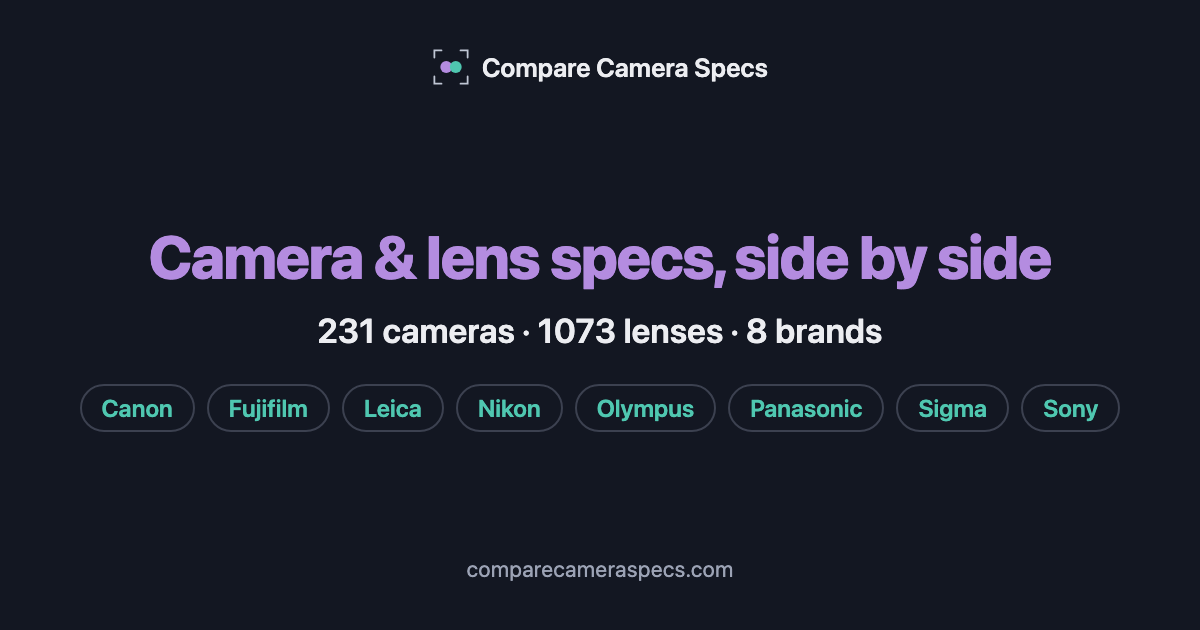
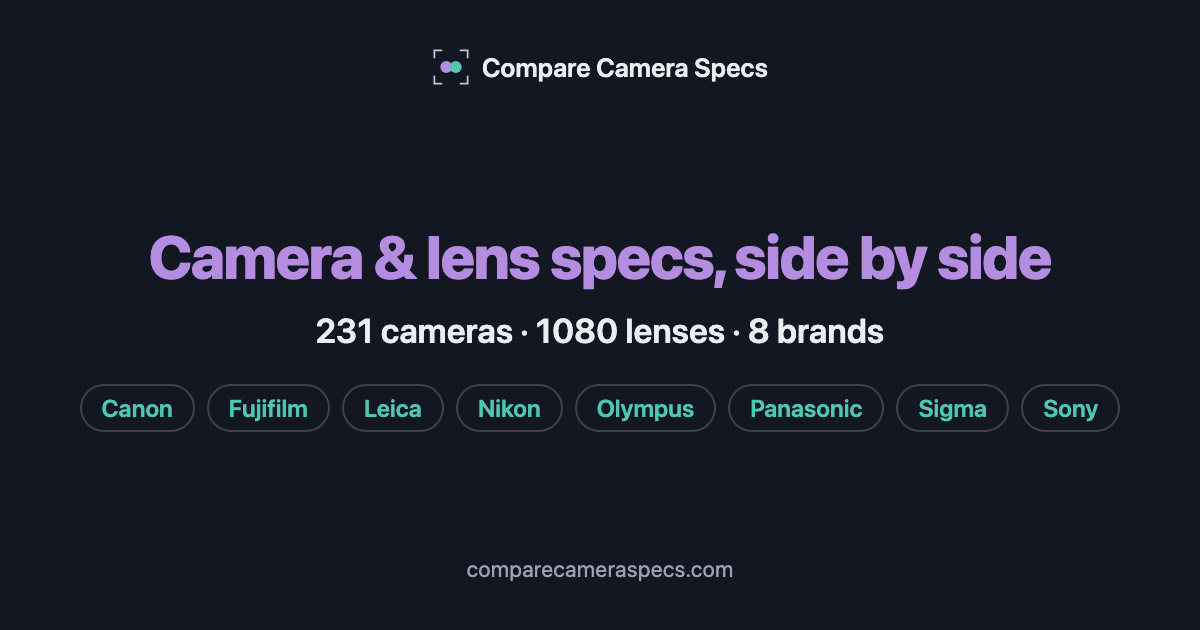
Nikon: add 7 TTArtisan Z-mount lenses; per-maker dropdown groups
50 f/1.2, Tilt 35 f/1.4, 14 f/2.8, 40 f/2.8 Macro, Tilt-Shift 17 f/4,
35 f/1.4 and 11 f/2.8 Fisheye. TTArtisan's tables cover all mounts; the
Z size/weight come from each lens's B&H Nikon Z listing. 15 candidates
skipped (no Z dimensions, or weight only as a cross-mount range), listed
in PROGRESS.md. Nikon's 'Other' group is now Yongnuo / TTArtisan /
7Artisans / Meike, as on sony/.

Claude-Session: https://claude.ai/code/session_01FYKXhtYCHKNL3CJLW6oPDG

Changed region(s): [[0.2467, 0.4825, 0.74, 0.5429]]

diff --git a/nikon/data.js b/nikon/data.js
@@ -3168,6 +3168,125 @@ const LENSES = {
     imageSource: { url:'https://ttartisan.store/products/ttartisan-af-85mm-f1-8-neo', tier:'T1', note:'official TTArtisan store product photo; the page\'s og:image reflects the default Sony E variant (filename "SKU-E_...") rather than the Z-selected one — the theme does not update the OG tag on a client-side mount-selector click. Cosmetically identical across mounts in a front-on shot', date:'2026-08-31' },
   },
 
+  'ttartisan-50mm-f12': {
+    name:'TTArtisan 50mm f/1.2', manufacturer:'TTArtisan', line:'MF', type:'Prime',
+    mount:'z', focalLength:50, focalLengthMin:null, focalLengthMax:null, focalLengthEquiv:'75mm',
+    maxAperture:1.2, minAperture:16, weight:336, length:60, diameter:62,
+    filterThread:52, minFocusDist:50, maxMagnification:null,
+    elements:7, groups:5, blades:10, afType:'Manual',
+    weatherSealed:false, ois:false, oisStops:null, year:2020, discontinued:false,
+    imageUrl:'https://cdn.shopify.com/s/files/1/0433/2224/5282/files/C5012-1.jpg',
+    imageSource: { url:'https://ttartisan.store/products/ttartisan-50mm-f1-2', tier:'T1', title:'TTArtisan official store', note:'first product image, lens alone; same photo as the Sony entry', date:'2026-10-21' },
+    asin:null,
+    prices:{USD:109,AUD:null,EUR:null,GBP:null,JPY:null,CAD:null,SGD:null},
+    specSources: [{ url:'https://www.bhphotovideo.com/c/product/1637540-REG/x.html/specs', tier:'T3', title:'B&H - TTArtisan 50mm f/1.2 (Nikon Z) specs', note:'Nikon Z: 62 x 60mm (diameter x length), 336g, f/1.2-16, 50cm, 7/5, 10 blades. Used for the Z size/weight, which TTArtisan publishes only as per-mount diagrams or a weight range', date:'2026-10-21' }, { url:'https://ttartisan.store/products/ttartisan-50mm-f1-2', tier:'T1', title:'TTArtisan 50mm f/1.2 - TTArtisan official store', note:'APS-C; F1.2-F16, 7/5, 10 blades, 0.5m, 52mm filter, around 336g; mounts E / X / Z / RF / EOS M / L / M43', date:'2026-10-21' }],
+    priceSource: { url:'https://ttartisan.store/products/ttartisan-50mm-f1-2', tier:'T1', title:'TTArtisan official store', note:'Nikon Z variant $109, no compare-at/sale price (store products.json); non-USD not examined', date:'2026-10-21' },
+    priceIncomplete:true,
+    productUrl:'https://ttartisan.store/products/ttartisan-50mm-f1-2',
+  },
+
+  'ttartisan-tilt-35mm-f14': {
+    name:'TTArtisan Tilt 35mm f/1.4', manufacturer:'TTArtisan', line:'Tilt', type:'Prime',
+    mount:'z', focalLength:35, focalLengthMin:null, focalLengthMax:null, focalLengthEquiv:'53mm',
+    maxAperture:1.4, minAperture:16, weight:345, length:65, diameter:66,
+    filterThread:52, minFocusDist:35, maxMagnification:null,
+    elements:7, groups:6, blades:10, afType:'Manual',
+    weatherSealed:false, ois:false, oisStops:null, year:2025, discontinued:false,
+    imageUrl:'https://cdn.shopify.com/s/files/1/0433/2224/5282/files/SKU-Z_94d21bfa-5d73-45fd-a8b4-b702f542326a.jpg',
+    imageSource: { url:'https://ttartisan.store/products/tilt-35mm-f1-4', tier:'T1', title:'TTArtisan official store', note:'the Nikon Z variant\'s own product image (file SKU-Z), lens alone', date:'2026-10-21' },
+    asin:null,
+    prices:{USD:169,AUD:null,EUR:null,GBP:null,JPY:null,CAD:null,SGD:null},
+    specSources: [{ url:'https://www.bhphotovideo.com/c/product/1896435-REG/x.html/specs', tier:'T3', title:'B&H - TTArtisan Tilt 35mm f/1.4 (Nikon Z) specs', note:'Nikon Z (T-C3514-Z-B): 66 x 65mm (diameter x length), 345g, 35cm. Used for the Z size/weight, which TTArtisan publishes only as per-mount diagrams or a weight range', date:'2026-10-21' }, { url:'https://ttartisan.store/products/tilt-35mm-f1-4', tier:'T1', title:'TTArtisan Tilt 35mm f/1.4 - TTArtisan official store', note:'APS-C tilt lens; F1.4-F16, 7/6, 10 blades, 0.35m, 52mm filter, around 341~350g; mounts E/X/Z/RF/M43', date:'2026-10-21' }],
+    priceSource: { url:'https://ttartisan.store/products/tilt-35mm-f1-4', tier:'T1', title:'TTArtisan official store', note:'Nikon Z variant $169, no compare-at/sale price (store products.json); non-USD not examined', date:'2026-10-21' },
+    priceIncomplete:true,
+    productUrl:'https://ttartisan.store/products/tilt-35mm-f1-4',
+  },
+
+  'ttartisan-14mm-f28-asph': {
+    name:'TTArtisan 14mm f/2.8 ASPH', manufacturer:'TTArtisan', line:'Manual', type:'Prime',
+    mount:'z', focalLength:14, focalLengthMin:null, focalLengthMax:null, focalLengthEquiv:'14mm',
+    maxAperture:2.8, minAperture:16, weight:445, length:65, diameter:80,
+    filterThread:null, minFocusDist:20, maxMagnification:null,
+    elements:13, groups:10, blades:8, afType:'Manual',
+    weatherSealed:false, ois:false, oisStops:null, year:2025, discontinued:false,
+    imageUrl:'https://cdn.shopify.com/s/files/1/0433/2224/5282/files/SKU-Z_d28e03b9-d119-4d4e-81eb-57571295d84b.jpg',
+    imageSource: { url:'https://ttartisan.store/products/14mm-f2-8', tier:'T1', title:'TTArtisan official store', note:'the Nikon Z variant\'s own product image (file SKU-Z), lens alone', date:'2026-10-21' },
+    asin:null,
+    prices:{USD:196,AUD:null,EUR:null,GBP:null,JPY:null,CAD:null,SGD:null},
+    specSources: [{ url:'https://www.bhphotovideo.com/c/product/1922596-REG/x.html/specs', tier:'T3', title:'B&H - TTArtisan 14mm f/2.8 ASPH (Nikon Z) specs', note:'Nikon Z (F1428-Z-B): 80 x 65mm (diameter x length), 445g, 0.2m, 13/10, 8 blades. Used for the Z size/weight, which TTArtisan publishes only as per-mount diagrams or a weight range', date:'2026-10-21' }, { url:'https://ttartisan.store/products/14mm-f2-8', tier:'T1', title:'TTArtisan 14mm f/2.8 ASPH - TTArtisan official store', note:'F2.8-F16, 13/10, 8 blades, 0.2m, 77mm filters via external holder only, around 437~445g; mounts E / Z / RF / L', date:'2026-10-21' }],
+    priceSource: { url:'https://ttartisan.store/products/14mm-f2-8', tier:'T1', title:'TTArtisan official store', note:'Nikon Z variant $196, no compare-at/sale price (store products.json); non-USD not examined', date:'2026-10-21' },
+    priceIncomplete:true,
+    productUrl:'https://ttartisan.store/products/14mm-f2-8',
+  },
+
+  'ttartisan-40mm-f28-macro': {
+    name:'TTArtisan 40mm f/2.8 Macro', manufacturer:'TTArtisan', line:'Macro', type:'Prime',
+    mount:'z', focalLength:40, focalLengthMin:null, focalLengthMax:null, focalLengthEquiv:'60mm',
+    maxAperture:2.8, minAperture:16, weight:371, length:77, diameter:63,
+    filterThread:52, minFocusDist:17, maxMagnification:1,
+    elements:8, groups:7, blades:11, afType:'Manual',
+    weatherSealed:false, ois:false, oisStops:null, year:2021, discontinued:false,
+    imageUrl:'https://cdn.shopify.com/s/files/1/0433/2224/5282/files/1_576e018c-2df7-4069-870e-d6bf6118a545.jpg',
+    imageSource: { url:'https://ttartisan.store/products/aps-c-40mm-f2-8-marco', tier:'T1', title:'TTArtisan official store', note:'first product image, lens alone; same photo as the Sony entry', date:'2026-10-21' },
+    asin:null,
+    prices:{USD:114,AUD:null,EUR:null,GBP:null,JPY:null,CAD:null,SGD:null},
+    specSources: [{ url:'https://www.bhphotovideo.com/c/product/1663949-REG/x.html/specs', tier:'T3', title:'B&H - TTArtisan 40mm f/2.8 Macro (Nikon Z) specs', note:'Nikon Z (A32B-Z): 63 x 77mm (diameter x length), 371g, 17cm, 8/7, 11 blades. Used for the Z size/weight, which TTArtisan publishes only as per-mount diagrams or a weight range', date:'2026-10-21' }, { url:'https://ttartisan.store/products/aps-c-40mm-f2-8-marco', tier:'T1', title:'TTArtisan 40mm f/2.8 Macro - TTArtisan official store', note:'APS-C 1:1 macro; F2.8-F16, 8/7, 11 blades, 0.17m, 52mm filter, around 371~403g; mounts E / X / Z / L / M43', date:'2026-10-21' }],
+    priceSource: { url:'https://ttartisan.store/products/aps-c-40mm-f2-8-marco', tier:'T1', title:'TTArtisan official store', note:'Nikon Z variant $114, no compare-at/sale price (store products.json); non-USD not examined', date:'2026-10-21' },
+    priceIncomplete:true,
+    productUrl:'https://ttartisan.store/products/aps-c-40mm-f2-8-marco',
+  },
+
+  'ttartisan-tilt-shift-17mm-f4-asph': {
+    name:'TTArtisan Tilt-Shift 17mm f/4 ASPH', manufacturer:'TTArtisan', line:'Tilt-Shift', type:'Prime',
+    mount:'z', focalLength:17, focalLengthMin:null, focalLengthMax:null, focalLengthEquiv:'17mm',
+    maxAperture:4, minAperture:16, weight:1051, length:116, diameter:88,
+    filterThread:null, minFocusDist:30, maxMagnification:null,
+    elements:17, groups:11, blades:10, afType:'Manual',
+    weatherSealed:false, ois:false, oisStops:null, year:2025, discontinued:false,
+    imageUrl:'https://cdn.shopify.com/s/files/1/0433/2224/5282/files/SKU-Z_1db242b7-1143-4d34-8cf2-90ad42138430.jpg',
+    imageSource: { url:'https://ttartisan.store/products/tilt-shift-17mm-f4-asph', tier:'T1', title:'TTArtisan official store', note:'the Nikon Z variant\'s own product image (file SKU-Z), lens alone', date:'2026-10-21' },
+    asin:null,
+    prices:{USD:550,AUD:null,EUR:null,GBP:null,JPY:null,CAD:null,SGD:null},
+    specSources: [{ url:'https://www.bhphotovideo.com/c/product/1957473-REG/x.html/specs', tier:'T3', title:'B&H - TTArtisan Tilt-Shift 17mm f/4 ASPH (Nikon Z) specs', note:'Nikon Z (F-TS174-Z): 88 x 116mm (diameter x length), 1051g, 30cm, 17/11, 10 blades. Used for the Z size/weight, which TTArtisan publishes only as per-mount diagrams or a weight range', date:'2026-10-21' }, { url:'https://ttartisan.store/products/tilt-shift-17mm-f4-asph', tier:'T1', title:'TTArtisan Tilt-Shift 17mm f/4 ASPH - TTArtisan official store', note:'F4-F16, 17/11, 10 blades, 0.3m, no filter thread, ±8° tilt / ±8mm shift, around 1051~1060g; mounts E/Z/RF/L/GFX', date:'2026-10-21' }],
+    priceSource: { url:'https://ttartisan.store/products/tilt-shift-17mm-f4-asph', tier:'T1', title:'TTArtisan official store', note:'Nikon Z variant $550, no compare-at/sale price (store products.json); non-USD not examined', date:'2026-10-21' },
+    priceIncomplete:true,
+    productUrl:'https://ttartisan.store/products/tilt-shift-17mm-f4-asph',
+  },
+
+  'ttartisan-35mm-f14': {
+    name:'TTArtisan 35mm f/1.4', manufacturer:'TTArtisan', line:'Manual', type:'Prime',
+    mount:'z', focalLength:35, focalLengthMin:null, focalLengthMax:null, focalLengthEquiv:'53mm',
+    maxAperture:1.4, minAperture:16, weight:180, length:44, diameter:56,
+    filterThread:39, minFocusDist:28, maxMagnification:null,
+    elements:7, groups:6, blades:10, afType:'Manual',
+    weatherSealed:false, ois:false, oisStops:null, year:2022, discontinued:false,
+    imageUrl:'https://cdn.shopify.com/s/files/1/0433/2224/5282/files/APS-C-35mm-F1.4_ef226ce4-f416-45f8-b230-517f5ac39e4f.jpg',
+    imageSource: { url:'https://ttartisan.store/products/aps-c-35mm-f1-4', tier:'T1', title:'TTArtisan official store', note:'first product image, lens alone; same photo as the Sony entry', date:'2026-10-21' },
+    asin:null,
+    prices:{USD:80,AUD:null,EUR:null,GBP:null,JPY:null,CAD:null,SGD:null},
+    specSources: [{ url:'https://www.bhphotovideo.com/c/product/1612188-REG/x.html/specs', tier:'T3', title:'B&H - TTArtisan 35mm f/1.4 (Nikon Z) specs', note:'Nikon Z: 56 x 44mm (diameter x length), 180g, 28cm, 7/6, 10 blades. Used for the Z size/weight, which TTArtisan publishes only as per-mount diagrams or a weight range', date:'2026-10-21' }, { url:'https://ttartisan.store/products/aps-c-35mm-f1-4', tier:'T1', title:'TTArtisan 35mm f/1.4 - TTArtisan official store', note:'APS-C; F1.4-F16, 7/6, 10 blades, 0.28m, 39mm filter, around 180g; mounts E / X / Z / RF / EOS M / L / M43', date:'2026-10-21' }],
+    priceSource: { url:'https://ttartisan.store/products/aps-c-35mm-f1-4', tier:'T1', title:'TTArtisan official store', note:'Nikon Z variant $80, no compare-at/sale price (store products.json); non-USD not examined', date:'2026-10-21' },
+    priceIncomplete:true,
+    productUrl:'https://ttartisan.store/products/aps-c-35mm-f1-4',
+  },
+
+  'ttartisan-11mm-f28-fisheye': {
+    name:'TTArtisan 11mm f/2.8 Fisheye', manufacturer:'TTArtisan', line:'Fisheye', type:'Prime',
+    mount:'z', focalLength:11, focalLengthMin:null, focalLengthMax:null, focalLengthEquiv:'11mm',
+    maxAperture:2.8, minAperture:16, weight:436, length:83, diameter:67,
+    filterThread:null, minFocusDist:17, maxMagnification:null,
+    elements:11, groups:7, blades:7, afType:'Manual',
+    weatherSealed:false, ois:false, oisStops:null, year:2022, discontinued:false,
+    imageUrl:'https://cdn.shopify.com/s/files/1/0433/2224/5282/files/1954.jpg',
+    imageSource: { url:'https://ttartisan.store/products/11mmf28', tier:'T1', title:'TTArtisan official store', note:'first product image, lens alone', date:'2026-10-21' },
+    asin:null,
+    prices:{USD:235,AUD:null,EUR:null,GBP:null,JPY:null,CAD:null,SGD:null},
+    specSources: [{ url:'https://ttartisan.store/products/11mmf28', tier:'T1', title:'TTArtisan 11mm f/2.8 Fisheye - TTArtisan official store', note:'full-frame diagonal fisheye sold as "Multi mount" (Nikon Z variants listed); the store page has no spec table, so every figure is B&H\'s Nikon Z listing. Year: the store\'s multi-mount listing date (March 2022)', date:'2026-10-21' }, { url:'https://www.bhphotovideo.com/c/product/1562302-REG/x.html/specs', tier:'T3', title:'B&H - TTArtisan 11mm f/2.8 Fisheye (Nikon Z) specs', note:'Nikon Z (A06B): 67 x 83mm (diameter x length), 436g, f/2.8-16, 17cm, 11/7, 7 blades, no filter thread. Used for the Z size/weight, which TTArtisan publishes only as per-mount diagrams or a weight range', date:'2026-10-21' }],
+    priceSource: { url:'https://ttartisan.store/products/11mmf28', tier:'T1', title:'TTArtisan official store', note:'Nikon Z variant $235, no compare-at/sale price (store products.json); non-USD not examined', date:'2026-10-21' },
+    priceIncomplete:true,
+    productUrl:'https://ttartisan.store/products/11mmf28',
+  },
+
   '7artisans-27mm-f28': {
     name:'7Artisans AF 27mm f/2.8', manufacturer:'7Artisans', line:'AF', type:'Prime',
     mount:'z', focalLength:27, focalLengthMin:null, focalLengthMax:null, focalLengthEquiv:'41mm',
@@ -3583,7 +3702,10 @@ const LENS_DROPDOWN_GROUPS = [
   { label: '── Zeiss ──', ids: ['zeiss-otus-ml-35mm-f14', 'zeiss-otus-ml-50mm-f14', 'zeiss-otus-ml-85mm-f14'] },
   { label: '── Laowa ──', ids: ['laowa-10mm-f4-cookie', 'laowa-10mm-f28-af', 'laowa-12mm-f28-lite-zero-d', 'laowa-15mm-f2', 'laowa-15mm-f45-macro', 'laowa-15mm-f5-cookie', 'laowa-15mm-f45-shift', 'laowa-17mm-f4-tilt-shift', 'laowa-20mm-f4-shift', 'laowa-25mm-f28-25-5x-macro', 'laowa-35mm-f28-tilt-shift-macro', 'laowa-55mm-f28-tilt-shift-macro', 'laowa-58mm-f28-2x-macro', 'laowa-65mm-f28-2x-macro', 'laowa-85mm-f56-2x-macro', 'laowa-90mm-f28-macro', 'laowa-100mm-f28-2x-macro', 'laowa-100mm-f28-tilt-shift-macro', 'laowa-argus-28mm-f12', 'laowa-argus-33mm-f095', 'laowa-8-15mm-f28-fisheye', 'laowa-8-16mm-f35-5', 'laowa-10-18mm-f45-56', 'laowa-12-24mm-f56-shift', 'laowa-aksen-45mm-f28', 'laowa-aksen-17-5mm-f17', 'laowa-4-5-10mm-f28-fisheye', 'laowa-200mm-f2-af', 'laowa-180mm-f45-macro', 'laowa-11mm-f45-rl', 'laowa-14mm-f4-rl', 'laowa-9mm-f56-rl', 'laowa-argus-35mm-f095', 'laowa-argus-45mm-f095', 'laowa-9mm-f28', 'laowa-12-24mm-f56', 'laowa-4mm-f28-fisheye', 'laowa-argus-25mm-f095'] },
   { label: '── Samyang ──', ids: ['samyang-14mm-f28', 'samyang-85mm-f14'] },
-  { label: '── Other ──', ids: ['yongnuo-11mm-f18', 'yongnuo-23mm-f14', 'yongnuo-33mm-f14', 'yongnuo-35mm-f18', 'yongnuo-35mm-f2', 'yongnuo-50mm-f18-da', 'yongnuo-50mm-f18', 'yongnuo-56mm-f14', 'yongnuo-85mm-f18', 'ttartisan-27mm-f28', 'ttartisan-17mm-f18-air', 'ttartisan-23mm-f18', 'ttartisan-35mm-f18-ii', 'ttartisan-40mm-f2', 'ttartisan-50mm-f18-neo', 'ttartisan-56mm-f18', 'ttartisan-75mm-f2', 'ttartisan-85mm-f18-neo', '7artisans-27mm-f28', '7artisans-10mm-f28', '7artisans-25mm-f18-lite', '7artisans-35mm-f18-lite', '7artisans-50mm-f18-lite', '7artisans-35mm-f18', '7artisans-40mm-f25-lite', '7artisans-50mm-f18', '7artisans-85mm-f18', 'meike-24mm-f14', 'meike-35mm-f18-pro', 'meike-50mm-f18', 'meike-85mm-f18', 'meike-85mm-f18-pro', 'meike-85mm-f18-se-ii'] },
+  { label: '── Yongnuo ──', ids: ['yongnuo-11mm-f18', 'yongnuo-23mm-f14', 'yongnuo-33mm-f14', 'yongnuo-35mm-f18', 'yongnuo-35mm-f2', 'yongnuo-50mm-f18-da', 'yongnuo-50mm-f18', 'yongnuo-56mm-f14', 'yongnuo-85mm-f18'] },
+  { label: '── TTArtisan ──', ids: ['ttartisan-27mm-f28', 'ttartisan-17mm-f18-air', 'ttartisan-23mm-f18', 'ttartisan-35mm-f18-ii', 'ttartisan-40mm-f2', 'ttartisan-50mm-f18-neo', 'ttartisan-56mm-f18', 'ttartisan-75mm-f2', 'ttartisan-85mm-f18-neo', 'ttartisan-50mm-f12', 'ttartisan-tilt-35mm-f14', 'ttartisan-14mm-f28-asph', 'ttartisan-40mm-f28-macro', 'ttartisan-tilt-shift-17mm-f4-asph', 'ttartisan-35mm-f14', 'ttartisan-11mm-f28-fisheye'] },
+  { label: '── 7Artisans ──', ids: ['7artisans-27mm-f28', '7artisans-10mm-f28', '7artisans-25mm-f18-lite', '7artisans-35mm-f18-lite', '7artisans-50mm-f18-lite', '7artisans-35mm-f18', '7artisans-40mm-f25-lite', '7artisans-50mm-f18', '7artisans-85mm-f18'] },
+  { label: '── Meike ──', ids: ['meike-24mm-f14', 'meike-35mm-f18-pro', 'meike-50mm-f18', 'meike-85mm-f18', 'meike-85mm-f18-pro', 'meike-85mm-f18-se-ii'] },
 ];
 
 return { BRAND_CONFIG, SERIES_COLORS, CAMERAS, CAMERA_ORDER,

diff --git a/nikon/index.html b/nikon/index.html
@@ -5,17 +5,17 @@
   <meta name="viewport" content="width=device-width, initial-scale=1.0">
   <title>Nikon Z Camera &amp; Lens Comparison</title>
   <!-- seo:begin (generated by scripts/generate-seo.js — do not edit by hand) -->
-  <meta name="description" content="Compare 16 Nikon cameras and 188 lenses side by side — price, sensor, autofocus, stabilization and video, in 7 currencies.">
+  <meta name="description" content="Compare 16 Nikon cameras and 195 lenses side by side — price, sensor, autofocus, stabilization and video, in 7 currencies.">
   <link rel="canonical" href="https://comparecameraspecs.com/nikon/">
   <meta property="og:type" content="website">
   <meta property="og:site_name" content="Compare Camera Specs">
   <meta property="og:title" content="Nikon Camera &amp; Lens Comparison">
-  <meta property="og:description" content="Compare 16 Nikon cameras and 188 lenses side by side — price, sensor, autofocus, stabilization and video, in 7 currencies.">
+  <meta property="og:description" content="Compare 16 Nikon cameras and 195 lenses side by side — price, sensor, autofocus, stabilization and video, in 7 currencies.">
   <meta property="og:url" content="https://comparecameraspecs.com/nikon/">
   <meta property="og:image" content="https://comparecameraspecs.com/og/nikon.png">
   <meta property="og:image:width" content="1200">
   <meta property="og:image:height" content="630">
-  <meta property="og:image:alt" content="Nikon: compare 16 cameras and 188 lenses side by side">
+  <meta property="og:image:alt" content="Nikon: compare 16 cameras and 195 lenses side by side">
   <meta name="twitter:card" content="summary_large_image">
   <meta name="twitter:image" content="https://comparecameraspecs.com/og/nikon.png">
   <script>
@@ -63,7 +63,7 @@
   <!-- seo:body:begin (generated by scripts/generate-seo.js — do not edit by hand) -->
   <section class="seo-links" aria-label="Popular Nikon comparisons">
     <h2>Popular Nikon camera comparisons</h2>
-    <p>Compare all 16 Nikon cameras and 188 lenses side by side — price, sensor, autofocus, stabilization and video, in seven currencies. Popular head-to-head comparisons:</p>
+    <p>Compare all 16 Nikon cameras and 195 lenses side by side — price, sensor, autofocus, stabilization and video, in seven currencies. Popular head-to-head comparisons:</p>
     <ul>
       <li><a href="vs/z6-iii-vs-z6-ii">Nikon Z6 III vs Z6 II</a></li>
       <li><a href="vs/z6-ii-vs-z6">Nikon Z6 II vs Z6</a></li>

diff --git a/index.html b/index.html
@@ -88,7 +88,7 @@
   <meta property="og:image" content="https://comparecameraspecs.com/og/home.png">
   <meta property="og:image:width" content="1200">
   <meta property="og:image:height" content="630">
-  <meta property="og:image:alt" content="Compare 231 cameras and 1073 lenses from 8 brands side by side">
+  <meta property="og:image:alt" content="Compare 231 cameras and 1080 lenses from 8 brands side by side">
   <meta name="twitter:card" content="summary_large_image">
   <meta name="twitter:image" content="https://comparecameraspecs.com/og/home.png">
   <script>
@@ -214,7 +214,7 @@
             <div class="brand-card-body">
               <div class="brand-name">Nikon</div>
               <div class="brand-mount">Z-Mount</div>
-              <div class="brand-count">16 cameras · 188 lenses</div>
+              <div class="brand-count">16 cameras · 195 lenses</div>
               <div class="brand-go">Compare &rarr;</div>
             </div>
           </a>

diff --git a/tests/data/links-offline.test.js b/tests/data/links-offline.test.js
@@ -182,8 +182,8 @@ const KNOWN_SHARED_LINKS = new Map([
 // +35 Laowa, +13 Voigtländer, +9 Zeiss (8 new + Batis 85, now current again),
 // +19 TTArtisan, +28 7Artisans, +12 Meike, +13 Thypoch/SG-image.
 // Nikon missing-lens pass (add-nikon-missing-thirdparty-lenses, 2026-10-21+),
-// same approach: +1 Tamron, +14 Laowa, +2 Voigtländer, +3 Zeiss.
-const ASIN_GAP_BASELINE = 291;
+// same approach: +1 Tamron, +14 Laowa, +2 Voigtländer, +3 Zeiss, +7 TTArtisan.
+const ASIN_GAP_BASELINE = 298;
 
 const allItems = () => brandDirs().flatMap(brand => {
   const { data } = loadBrand(brand);

diff --git a/about.html b/about.html
@@ -15,7 +15,7 @@
   <meta property="og:image" content="https://comparecameraspecs.com/og/home.png">
   <meta property="og:image:width" content="1200">
   <meta property="og:image:height" content="630">
-  <meta property="og:image:alt" content="Compare 231 cameras and 1073 lenses from 8 brands side by side">
+  <meta property="og:image:alt" content="Compare 231 cameras and 1080 lenses from 8 brands side by side">
   <meta name="twitter:card" content="summary_large_image">
   <meta name="twitter:image" content="https://comparecameraspecs.com/og/home.png">
   <script>

diff --git a/privacy.html b/privacy.html
@@ -15,7 +15,7 @@
   <meta property="og:image" content="https://comparecameraspecs.com/og/home.png">
   <meta property="og:image:width" content="1200">
   <meta property="og:image:height" content="630">
-  <meta property="og:image:alt" content="Compare 231 cameras and 1073 lenses from 8 brands side by side">
+  <meta property="og:image:alt" content="Compare 231 cameras and 1080 lenses from 8 brands side by side">
   <meta name="twitter:card" content="summary_large_image">
   <meta name="twitter:image" content="https://comparecameraspecs.com/og/home.png">
   <script>

diff --git a/openspec/changes/add-nikon-missing-thirdparty-lenses/PROGRESS.md b/openspec/changes/add-nikon-missing-thirdparty-lenses/PROGRESS.md
@@ -1,6 +1,7 @@
 # Progress — Nikon missing third-party lenses
 
-**Resume at:** 2.4 TTArtisan
+**Resume at:** 2.5 7Artisans
+**TTArtisan done 2026-10-21 (7 lenses):** 50 f/1.2, Tilt 35 f/1.4, 14 f/2.8, 40 f/2.8 Macro, Tilt-Shift 17 f/4, 35 f/1.4, 11 f/2.8 Fisheye. Maker tables give one spec set for all mounts (weight as a range); the Z size/weight are each lens's B&H Nikon Z listing. USD = store Z variant price (no compare-at). Z-specific product shots where the store has them (SKU-Z files). Nikon's "Other" dropdown group split into Yongnuo / TTArtisan / 7Artisans / Meike, as on sony/.
 **Voigtländer + Zeiss done 2026-10-21 (5 lenses):** Nokton 75mm f/1.5 and Nokton Classic 35mm f/1.4 (Cosina EN Z pages; B&H prices $899 / $699; existing 13 Nikon Voigtländer USD prices all still match B&H regular). Zeiss Otus ML 35/50/85 Z from zeiss.com's per-mount Technical Data (Z is 2-3mm longer and 20-40g heavier than E); B&H $2,299 / $2,499 / $2,999; images gapped as on sony/. Also fixed sony zeiss-otus-ml-35mm-f14 year 2025 -> 2026 (announced 2026-02-24).
 **Laowa done 2026-10-21 (14 lenses):** Aksen 45 / 17.5, 4.5-10 CF fisheye, 200 f/2 AF, 180 1.5X macro, RL 9/11/14, Argus 25 CF APO / 35 / 45, 9mm f/2.8 Zero-D, 12-24 f/5.6 Zoom, 4mm fisheye. Shared optics cloned from the Sony entries; Z-specific figures where Laowa gives them (200mm 176.8mm long, 12-24 95.6mm), B&H Nikon Z listings for the rest (180mm Z 134.4mm / 522g; RL 11 Z matches Laowa's single figure). USD = venuslens Nikon Z variation regular price. Argus 25 isn't on Laowa's US store: specs from laowa.com.au + B&H Z listing (match), USD = B&H regular $549. Images reuse the Sony entries' shots (as the existing Nikon Laowa entries do); RL 9/11/14 gapped as on sony/.
 **Viltrox + Tamron done 2026-10-21:** Viltrox's "missing" AF 27mm f/1.2 Pro was already in the data (`viltrox-27mm-f12`, productUrl null) but held the Sony E column's 560g / 92mm; corrected to the Z column (605g / 94mm) and given its Z store page + sources. Tamron 20-40mm f/2.8 (A062) Z added from tamron.com's per-mount spec table ($729, on sale 2026-10-22).
@@ -30,11 +31,16 @@ Makers' store catalogues (Shopify `products.json`, venuslens Woo Store API, Cosi
 |---|---|---|---|---|
 | Viltrox + Tamron | 2 | 1 (+1 fixed) | 0 | 859674a |
 | Laowa | 16 | 14 | 2 | 7f2a8ca |
-| Voigtländer + Zeiss | 5 | 5 | 0 | (this commit) |
+| Voigtländer + Zeiss | 5 | 5 | 0 | 63bfe4e |
+| TTArtisan | 22 | 7 | 15 | (this commit) |
 
 ## Skipped (with reason)
 - Laowa ACRIS 35mm f/2.8 1X Macro (Z AF version, $449, 570g): Laowa gives dimensions for EF only and B&H's Z listing has none — Z length unknown.
 - Laowa 12mm f/2.8 Zero-D (original): DSLR-era design (owner rule from the Sony pass). MF 14-blade variants of the 10mm/12mm Lite: same optics as the AF entries already in the data.
+
+- TTArtisan, B&H Z listing has no lens dimensions and TTArtisan gives only size diagrams: 50mm f/2, Tilt 50mm f/1.4, 100mm f/2.8 2X Macro, APS-C 10mm f/2, 17mm f/1.4, 500mm f/6.3, APS-C 50mm f/0.95, 50mm f/1.4 ASPH.
+- TTArtisan, Z dimensions on B&H but the lens weight only as TTArtisan's cross-mount range (owner question: enter the range's upper figure?): APS-C 23mm f/1.4 (60 x 40.5mm; 222~250g), 7.5mm f/2 Fisheye (72 x 57mm; 343~370g), APS-C 25mm f/2 (59 x 31mm; 166~189g), APS-C 35mm f/0.95 (63 x 43mm; 247~267g).
+- TTArtisan, not at B&H and no maker table: AF 24mm f/3.8 mini (new 2026-10, 57g, E/Z), AF 32mm f/2.8 (Z), 21mm f/1.5. Out of scope: M 100mm f/2.8 Bubble (M42/M only), 90mm f/1.25 (GFX/XCD only), Leica-M lenses.
 
 ## Method (reuse from the Sony pass)
 - Gaps: diff each maker's `products.json` handles and names against `productUrl`s/names (a handle can be a substring of another maker's URL — check by name).

diff --git a/openspec/changes/add-nikon-missing-thirdparty-lenses/tasks.md b/openspec/changes/add-nikon-missing-thirdparty-lenses/tasks.md
@@ -7,7 +7,7 @@
 - [x] 2.1 Viltrox + Tamron
 - [x] 2.2 Laowa
 - [x] 2.3 Voigtländer + Zeiss
-- [ ] 2.4 TTArtisan
+- [x] 2.4 TTArtisan
 - [ ] 2.5 7Artisans
 - [ ] 2.6 Meike
 - [ ] 2.7 Thypoch / SG-image
